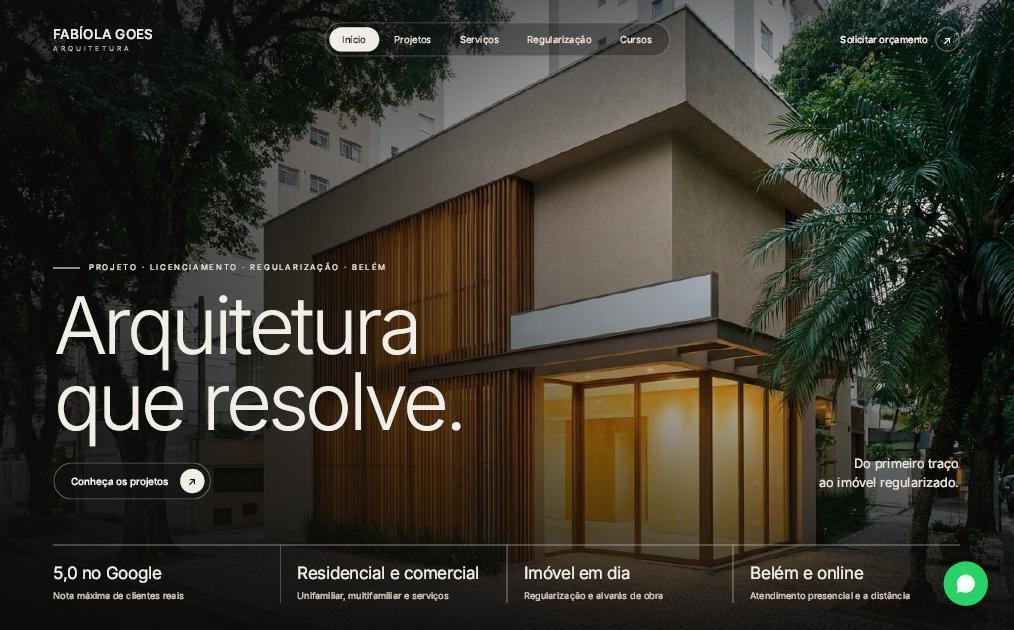
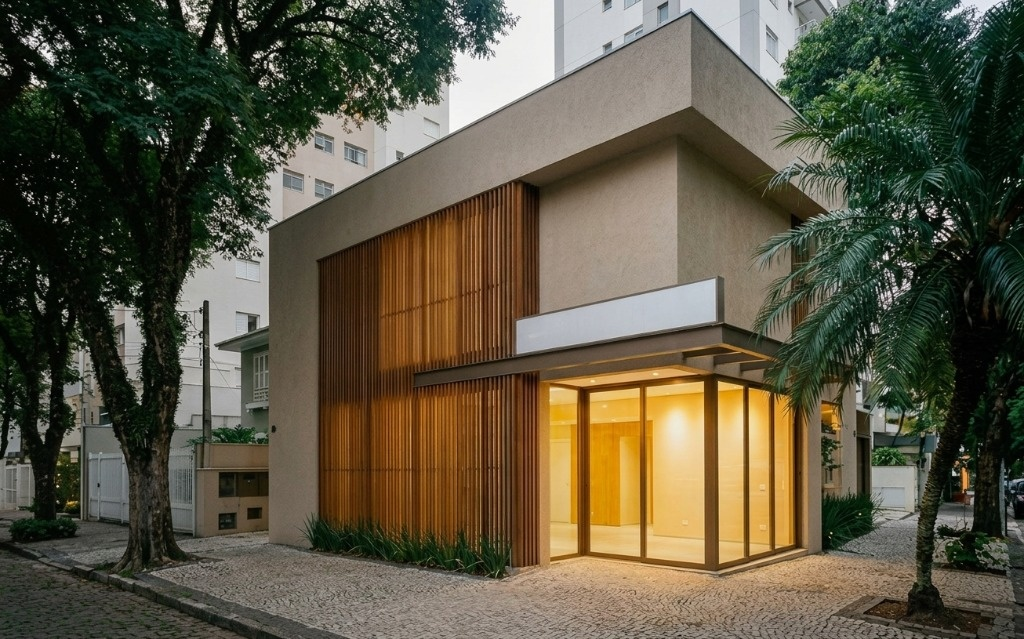
fix(hero): substituir foto de fundo pela versao original limpa sem texto fantasma (v5)

diff --git a/index.html b/index.html
@@ -249,7 +249,7 @@
     
     <!-- Background Image: A foto original da casa em altíssima definição, limpa de qualquer texto e com iluminação natural clara e acolhedora -->
     <div class="absolute inset-0 z-0">
-      <img src="assets/hero-house-bg.jpg?v=4" 
+      <img src="assets/hero-house-bg.jpg?v=5" 
            alt="Projeto Arquitetônico Contemporâneo Fabíola Góes" 
            class="w-full h-full object-cover object-center brightness-100 contrast-100" />
       <!-- Filtro sutilíssimo apenas na lateral esquerda para contraste perfeito dos textos brancos sem escurecer a arquitetura da casa -->
